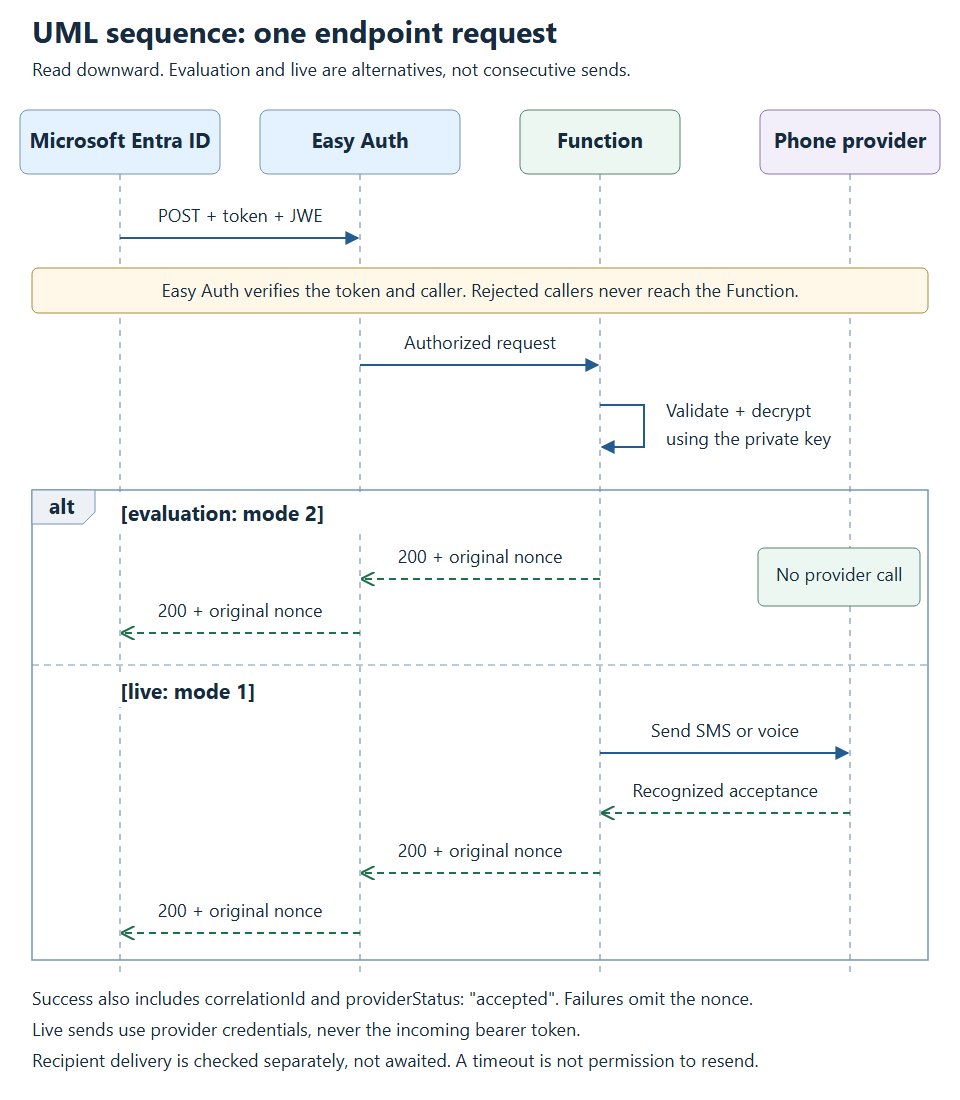
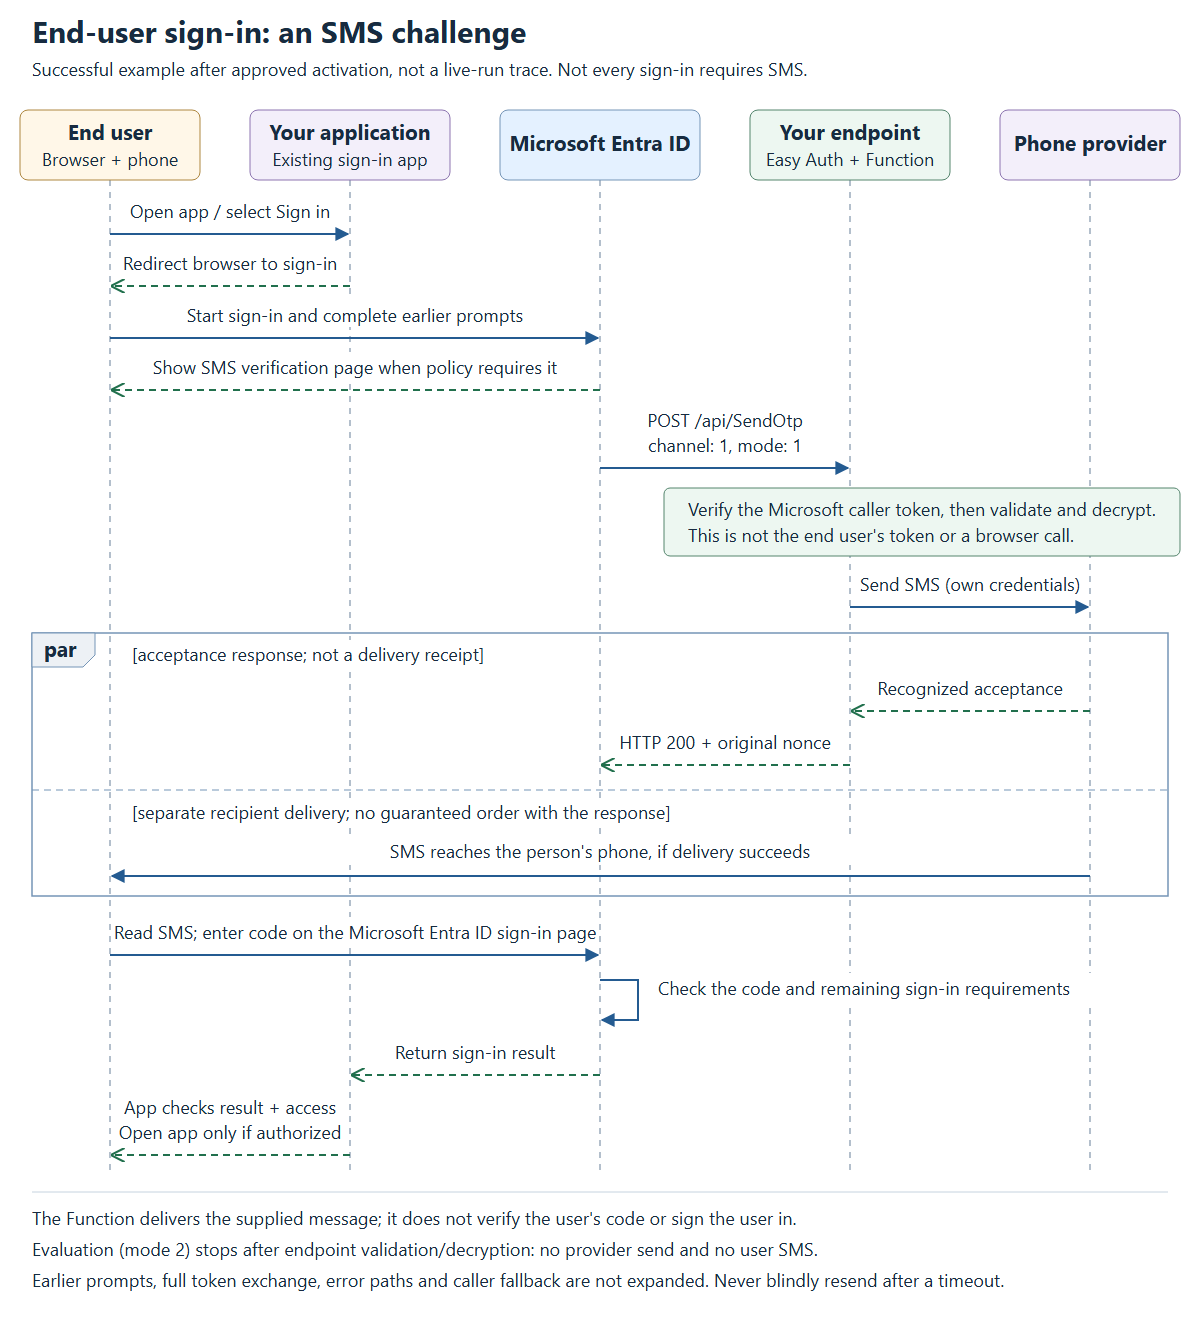
docs: show the end-user SMS journey and exact portal controls
Extend the UML through the user's app, phone delivery, code entry and access checks. Add verified official Function settings and certificate-version screenshots with exact resource/field guidance and source/license attribution, replacing the abstract certificate map.

Copilot-Session: eb941502-3065-4ec4-abf8-b5dac1f42ab2

diff --git a/setup/docs/README.md b/setup/docs/README.md
@@ -292,13 +292,6 @@ Setup reads `keyCredentials` before deployment and identifies **`type=Asymmetric
 It displays each key ID, certificate thumbprint, name, and validity. Signing/verification
 certificates are not encryption candidates, and unsupported encryption credential types stop setup.
 
-![Certificate reuse identifier map: match the app encryption credential key ID to the exact Key Vault certificate version; setup resolves its backing secret for the Function without downloading the private key.](../../docs/images/onboarding/certificate-reuse.png)
-
-*Original identifier map; [open the scalable illustration](../../docs/images/onboarding/certificate-reuse.svg).
-**Reuse path only:** choose **Reuse** interactively or pass `-CertificateAction Reuse`. Select the app encryption key
-and provide its certificate version; unattended reuse requires both named ID parameters.
-The Function's secret reference is an output, not a secret value to copy. Follow the checks below.*
-
 | Existing encryption credentials | Choice | Result after successful deployment |
 |---|---|---|
 | None | Creation is automatic; optional `-CertificateAction Create`. | Register one certificate from the setup vault. |
@@ -309,12 +302,34 @@ Interactive selection never defaults to the newest certificate or to cleanup. En
 stops before deployment; invalid locations can be corrected or followed by another choice.
 Selecting an action does not apply it: the complete deployment approval lists the exact removals.
 
-For reuse, open **Azure portal > Key Vault > Certificates > certificate > version** and copy
-**Certificate Identifier**, of the form
-`https://<vault>.vault.azure.net/certificates/<name>/<version>`. A version is required.
-Do not supply a vault-only URL, `/keys/` URL, public `.cer` file, secret value, or a versionless
-reference. Setup reads the public certificate and resolves the corresponding **versioned backing
-secret**; the certificate and secret version identifiers need not be identical.
+**Reuse path only:** choose **Reuse** interactively or pass `-CertificateAction Reuse`. Unattended
+reuse requires both `-EncryptionKeyId` and `-KeyVaultCertificateId`.
+
+1. Select the application's encryption credential key ID from setup's list or the app manifest's
+   `keyCredentials[].keyId`. This is the saved `encryptionKeyId`, not the application client ID.
+2. In **Azure portal > Key vaults**, open the certificate's source vault. The saved `certificateId`
+   identifies its vault, certificate name, and version; this can differ from the provider-credential
+   vault in `resources.keyVault`. Open **Objects > Certificates**, select that certificate, then
+   select the exact version matching the app credential, not automatically **Current version**.
+   Without a saved summary, ask the certificate owner for the vault and version matching the
+   selected public thumbprint.
+3. On **Certificate Version**, copy **Certificate Identifier** using the copy icon at the end of
+   that row. Use the complete HTTPS URL for `-KeyVaultCertificateId`; it must include the
+   `/certificates/<name>/<version>` path. Do not copy **Key Identifier** or **Secret Identifier**,
+   and do not select **Download in PFX/PEM format**.
+
+[![Official Key Vault Certificate Version page showing Certificate Identifier above the separate Key Identifier and Secret Identifier fields, using Microsoft's AKV-Contoso and ExampleCertificate demo.](../../docs/images/onboarding/certificate-version.png)](../../docs/images/onboarding/certificate-version.png)
+
+*Field-location example from [Microsoft's certificate instructions](https://learn.microsoft.com/en-us/azure/key-vault/certificates/quick-create-portal#add-a-certificate-to-key-vault);
+do not follow its certificate-creation or private-key-export steps for this sample.
+The demo names, IDs, and expired dates are not reuse inputs; use your own valid, matching version.
+[Unmodified source](https://github.com/MicrosoftDocs/azure-docs/blob/22e0ade52c247e5d306a78dc9e392d901eb9c198/articles/key-vault/media/certificates/quick-create-portal/current-version-hidden.png),
+Copyright (c) Microsoft Corporation, [CC BY 4.0](https://github.com/MicrosoftDocs/azure-docs/blob/22e0ade52c247e5d306a78dc9e392d901eb9c198/LICENSE).*
+
+A version is required. Do not supply a vault-only URL, `/keys/` URL, public `.cer` file, secret value,
+or a versionless reference. Setup reads the public certificate and resolves the corresponding
+**versioned backing secret** for `EPP_DECRYPTION_KEY_PEM`; certificate and secret version identifiers
+need not be identical. The Function's private-key reference is an output, not a value to download.
 
 The certificate must exactly match the selected registered certificate, not just its display
 name or RSA key. It must use exportable RSA of at least 2048 bits with an enabled,

diff --git a/docs/BRING-YOUR-OWN-PROVIDER.md b/docs/BRING-YOUR-OWN-PROVIDER.md
@@ -11,17 +11,34 @@ Deploying the endpoint alone does not enable tenant policy.
 
 ## End-to-end endpoint request
 
-![UML sequence showing Microsoft Entra ID calling Easy Auth, the Function validating and decrypting, and alternative evaluation and live paths. Only live calls reach the provider; success returns through Easy Auth after evaluation or recognized acceptance.](images/request-sequence.png)
+This is a browser-based **SMS sign-in example after approved endpoint activation**. Your
+application is the user's existing sign-in app, **not** the dedicated endpoint app registration
+created during setup. Do not add a redirect URI to that endpoint registration to copy this flow.
+
+![End-user SMS sign-in sequence: a person opens an app, follows the redirect to Microsoft Entra ID, receives a provider-delivered SMS after an authorized SendOtp call, enters the code on the sign-in page, and accesses the app only after identity and application checks succeed. Provider acceptance and phone delivery are separate observations.](images/request-sequence.png)
 
 *Original UML sequence; [open the scalable diagram](images/request-sequence.svg).
-Solid arrows are calls; dashed arrows are replies. The two successful branches are alternatives.
-Rejected callers, invalid payloads, and provider failures stop the success path; use the
-[error response reference](CONTRACT.md#epp-response-json) for those cases.
-This illustrates the [shared contract](CONTRACT.md#1-http-api), not a completed live test.*
+Solid arrows are requests/delivery; dashed arrows are replies. The `par` frame separates
+provider acceptance from recipient delivery; it does not promise their order or successful delivery.
+This is a successful example, not a completed live test. Use the
+[endpoint error reference](CONTRACT.md#epp-response-json) for rejected or failed endpoint requests.*
 
-The success response acknowledges evaluation or provider acceptance, **not recipient delivery**.
-The steps below explain each interaction; the
-[architecture view](../TECHNICAL.md#single-region-architecture) shows the separate key and credential paths.
+The person reads the SMS on their phone and enters its code in the **Microsoft Entra ID sign-in
+page**, as described in Microsoft's [text-message verification instructions](https://learn.microsoft.com/en-us/entra/identity/authentication/concept-authentication-phone-options#text-message-verification).
+Microsoft Entra ID checks the code and remaining sign-in requirements; the application validates
+the sign-in result and applies its access rules. The
+[browser redirect/token exchange](https://learn.microsoft.com/en-us/entra/identity-platform/v2-protocols-oidc#protocol-flow-sign-in)
+belongs to that application, not this Function.
+
+The Function only delivers the supplied message. For live requests, its `200` response means provider acceptance,
+**not phone receipt, a correct user-entered code, or application access**. Evaluation (`mode: 2`)
+tests the endpoint without sending a message; it is not an end-user sign-in.
+Voice and other sign-in flows can have different prompts; confirm their experience through the
+[approved validation procedure](ONBOARDING.md#validate-the-deployed-endpoint), rather than assuming
+they use this SMS screen or a generic voice-MFA gesture.
+
+The steps below explain the endpoint's part of the sequence. The
+[architecture view](../TECHNICAL.md#single-region-architecture) shows its separate key and credential paths.
 
 <a id="1-establish-caller-authentication"></a>
 

diff --git a/docs/ONBOARDING.md b/docs/ONBOARDING.md
@@ -98,10 +98,29 @@ Review the deployment plan, then retain `deployment-*.json` and the public certi
 The [setup output guide](../setup/docs/README.md#read-the-deployment-summary) explains the remaining
 fields. `policyChanged: false` is expected, not a failed deployment.
 
-Inspect cloud settings in **Azure portal > Function App > Settings > Environment variables**.
-They are setup-managed; do not recreate them from the local sample or bulk-copy another app's
-settings. Do not export all settings into a ticket. Changes can restart the worker, and reruns
-can restore setup-managed values.
+To find your endpoint's cloud settings:
+
+1. In **Azure portal > Function Apps**, open the name in `resources.functionApp` in your saved
+   deployment summary. Check its subscription and resource group against `subscriptionId` and
+   `resources.resourceGroup`; do not select an app just because its display name looks similar.
+2. Open **Settings > Environment variables > App settings**. Use the **Search** box to find
+   `EPP_PROVIDER_NAME`, `EPP_PROVIDER_SMS_ENDPOINT`, or `EPP_PROVIDER_VOICE_ENDPOINT`, then use
+   the table below to compare the approved routing configuration privately.
+3. Find `EPP_DECRYPTION_KEY_PEM` by **Name**, but keep its value hidden. It is the private-key
+   reference, not a provider API key. Do not select **Show values** to export settings or include
+   them in a screenshot. Use the [key-reference checks](../setup/docs/Troubleshooting.md#certificate-selection-reuse-or-cleanup-fails)
+   if resolution fails.
+
+[![Official Azure portal example with Settings, Environment variables, and the App settings tab highlighted; all setting values remain hidden.](images/onboarding/function-app-settings.png)](images/onboarding/function-app-settings.png)
+
+*Navigation example from [Microsoft's Function settings instructions](https://learn.microsoft.com/en-us/azure/azure-functions/functions-how-to-use-azure-function-app-settings#get-started-in-the-azure-portal).
+`function-app-1` is a demo name; use `resources.functionApp`. The generic host settings shown
+are not an EPP checklist, and FC1/EP1 settings differ.
+[Unmodified source](https://github.com/MicrosoftDocs/azure-docs/blob/1067858212cfae5f69de14fe53a3432eb461b052/articles/azure-functions/media/functions-how-to-use-azure-function-app-settings/azure-function-app-main.png),
+Copyright (c) Microsoft Corporation, [CC BY 4.0](https://github.com/MicrosoftDocs/azure-docs/blob/1067858212cfae5f69de14fe53a3432eb461b052/LICENSE).*
+
+These settings are setup-managed; do not recreate them from the local sample or bulk-copy another
+app's settings. Changes can restart the worker, and reruns can restore setup-managed values.
 
 | Value or setting | Source / verification | Customer action |
 |---|---|---|
@@ -125,7 +144,7 @@ a missing, empty, or invalid selected endpoint fails closed.
 There are **three separate trust paths**: Easy Auth admits the Microsoft caller; the Key Vault
 certificate decrypts its JWE; provider credentials authorize outbound delivery. The HTTPS
 certificate is separate again. Use the [request sequence](BRING-YOUR-OWN-PROVIDER.md#end-to-end-endpoint-request)
-to see where evaluation stops and live delivery continues. Fix the failing path rather than
+to distinguish provider acceptance, phone receipt, and the user's code verification. Fix the failing path rather than
 replacing unrelated IDs or keys.
 
 ## Complete provider authentication

diff --git a/TECHNICAL.md b/TECHNICAL.md
@@ -17,7 +17,7 @@ and managed-identity access to credentials.
 
 *Component overview, not a delivery timeline. The numbered delivery arrow does not mean
 the Function waits for handset receipt; see the [request sequence](docs/BRING-YOUR-OWN-PROVIDER.md#end-to-end-endpoint-request)
-for evaluation and live response ordering.*
+for live SMS response ordering and the end user's verification steps.*
 
 Microsoft Entra ID sends an authenticated, encrypted request. Easy Auth checks the caller,
 then the Function decrypts the request using its Key Vault-backed key. For a live request, the
